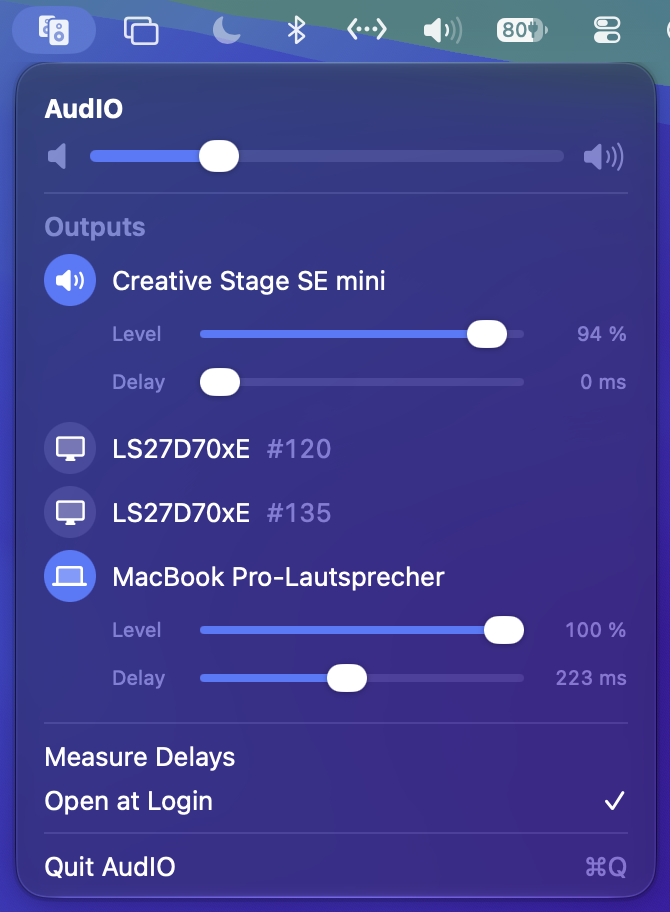
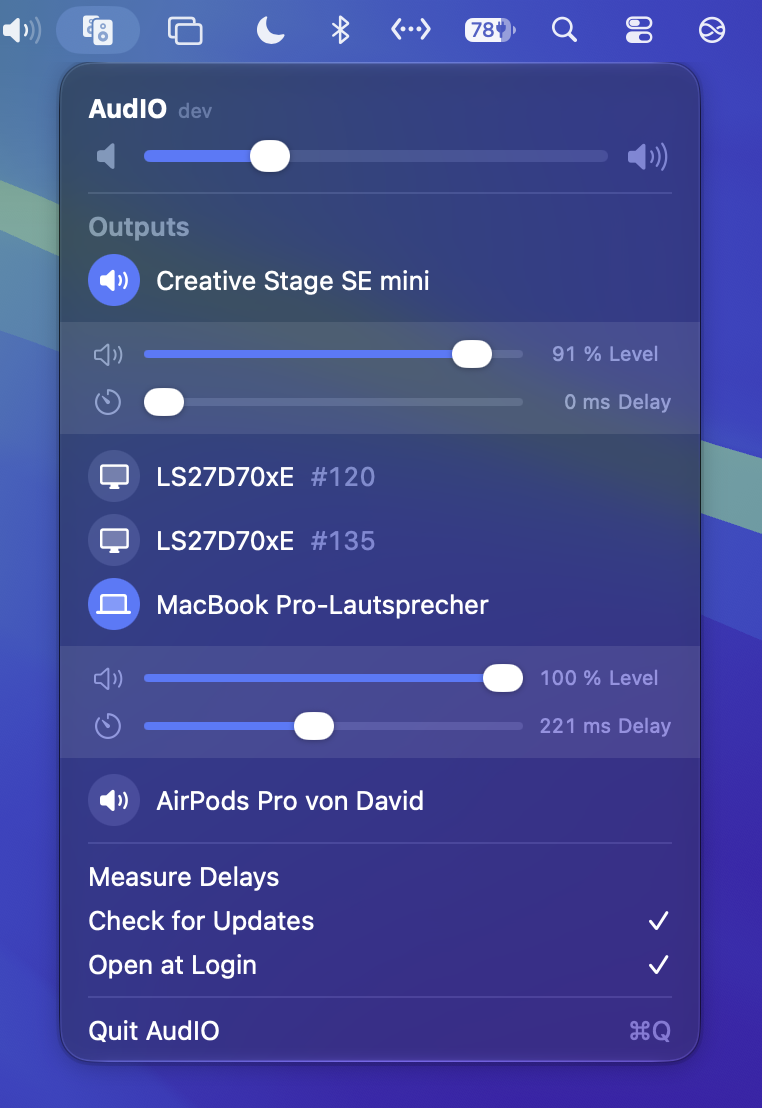
feat(menu): output details on a band like the Sound menu
Level and delay of a selected output sit on a full-width band with
the Sound menu's spacing (5 pt gaps, measured). Their sliders line up
with the master slider behind matching symbols, value and label read
as one ("240 ms Delay"), and the value reserves its widest width so
the sliders never resize. Updated README screenshot.

Claude-Session: https://claude.ai/code/session_01LoyFcxYu3qKjznassrPHs9

diff --git a/Sources/AudIO/Views/DeviceRow.swift b/Sources/AudIO/Views/DeviceRow.swift
@@ -42,30 +42,41 @@ struct DeviceRow: View {
     }
 }
 
-/// Level and delay of a selected output, below its row, aligned with the device name.
+/// Level and delay of a selected output, below its row: symbol and slider aligned with the
+/// master volume's, then value and label ("240 ms Delay") – on a
+/// lighter band spanning the panel's full width, like the Sound menu's expanded AirPods
+/// section (measured: ~10 % white over the glass in dark mode).
 struct DeviceDetail: View {
     let uid: String
     @EnvironmentObject private var router: Router
 
-    /// Fixed, so it can be revealed by animating its frame (two rows + spacing + bottom).
-    static let height: CGFloat = 22 + 2 + 22 + 6
+    /// The band's own padding, and its distance to the rows above and below (Sound menu:
+    /// 5 pt each, measured).
+    private static let padding: CGFloat = 5
+    /// Fixed, so it can be revealed by animating its frame: gap, band (padding, two rows with
+    /// spacing, padding), gap.
+    static let height: CGFloat = padding + (padding + 22 + 2 + 22 + padding) + padding
 
     var body: some View {
         let settings = router.binding(for: uid)
-        // A grid, so the sliders line up after the longest label – in any language.
-        Grid(alignment: .leading, horizontalSpacing: 8, verticalSpacing: 2) {
-            ParameterRow(title: "Level", value: router.volumeBinding(for: uid), range: 0...1, step: 0.01) {
+        // A grid: the sliders take all the width the values and the longest (translated)
+        // label leave, and stay equally long.
+        Grid(alignment: .leading, horizontalSpacing: MenuMetrics.sliderSpacing, verticalSpacing: 2) {
+            ParameterRow(title: "Level", symbol: "speaker.wave.2", value: router.volumeBinding(for: uid), range: 0...1, step: 0.01) {
                 "\(Int(($0 * 100).rounded())) %"
             }
-            ParameterRow(title: "Delay", value: settings.delayMs, range: 0...500, step: 1) {
+            ParameterRow(title: "Delay", symbol: "timer", value: settings.delayMs, range: 0...500, step: 1) {
                 "\(Int($0.rounded())) ms"
             }
         }
         .font(.caption)
         .foregroundStyle(.secondary)
-        .padding(.leading, MenuMetrics.textInset)
+        .padding(.leading, MenuMetrics.inset)
         .padding(.trailing, MenuMetrics.inset)
-        .padding(.bottom, 6)
+        .padding(.vertical, Self.padding)
+        .frame(maxWidth: .infinity, alignment: .leading)
+        .background(Color.primary.opacity(0.1))
+        .padding(.vertical, Self.padding)
         .frame(height: Self.height, alignment: .top)
         .disabled(!router.isReady)
     }
@@ -73,6 +84,7 @@ struct DeviceDetail: View {
 
 private struct ParameterRow: View {
     let title: LocalizedStringKey
+    let symbol: String
     @Binding var value: Double
     let range: ClosedRange<Double>
     let step: Double
@@ -80,14 +92,24 @@ private struct ParameterRow: View {
 
     var body: some View {
         GridRow {
-            Text(title).lineLimit(1)
+            Image(systemName: symbol)
+                .font(.system(size: 13))
+                .frame(width: MenuMetrics.sliderIconWidth)
             // (row height set on a cell – a modifier on the GridRow itself would turn it into
             // a single cell spanning the grid)
             MenuSlider(value: $value, range: range, step: step, knob: CGSize(width: 20, height: 14), track: 4)
                 .frame(height: 22)
-            Text(verbatim: display(value))
+            // Value and label read as one ("240 ms Delay"). The value reserves the width of
+            // its largest value ("500 ms", monospaced digits) – the sliders keep their length
+            // while dragging, and at full digit count the gap equals the one on the left.
+            HStack(spacing: 3) {
+                ZStack(alignment: .trailing) {
+                    Text(verbatim: display(range.upperBound)).hidden()
+                    Text(verbatim: display(value))
+                }
                 .monospacedDigit()
-                .frame(width: 44, alignment: .trailing)
+                Text(title).lineLimit(1)
+            }
         }
     }
 }

diff --git a/Sources/AudIO/Views/MenuSections.swift b/Sources/AudIO/Views/MenuSections.swift
@@ -20,6 +20,11 @@ enum MenuMetrics {
     static let iconSpacing: CGFloat = 8
     /// Where labels start (and where level/delay line up).
     static let textInset = inset + iconSize + iconSpacing
+    /// Symbol column left of a slider (master, level, delay) – fixed, so all sliders start
+    /// at the same x, whatever the symbol.
+    static let sliderIconWidth: CGFloat = 20
+    /// Symbol → slider.
+    static let sliderSpacing: CGFloat = 8
     /// Level/delay opening – the panel grows along in the same SwiftUI animation.
     static let animation = Animation.easeInOut(duration: 0.25)
 }
@@ -226,8 +231,9 @@ struct MasterVolumeView: View {
     @EnvironmentObject private var router: Router
 
     var body: some View {
-        HStack(spacing: 8) {
+        HStack(spacing: MenuMetrics.sliderSpacing) {
             Image(systemName: router.isDriverMuted ? "speaker.slash.fill" : "speaker.fill")
+                .frame(width: MenuMetrics.sliderIconWidth)
             MenuSlider(value: router.driverVolumeBinding())
             Image(systemName: "speaker.wave.3.fill")
         }

diff --git a/README.md b/README.md
@@ -8,7 +8,7 @@ AudIO adds an **AudIO** device to the Sound menu. Select it to start routing, pi
 
 Requires macOS 14.2 or later on Apple Silicon. Available in English, German, French, Italian, Spanish, Portuguese (Brazil), Dutch, Danish, Swedish, Norwegian, Finnish, Polish, Czech, Ukrainian, Japanese, Chinese (Simplified) and Korean.
 
-<p align="center"><img src="https://raw.githubusercontent.com/enke-dev/AudIO/main/docs/screenshot.png" width="335" alt="The AudIO panel in the menu bar: master volume, outputs with level and delay, Measure Delays"></p>
+<p align="center"><img src="https://raw.githubusercontent.com/enke-dev/AudIO/main/docs/screenshot.png" width="381" alt="The AudIO panel in the menu bar: master volume, outputs with level and delay, Measure Delays"></p>
 
 ## Install
 
